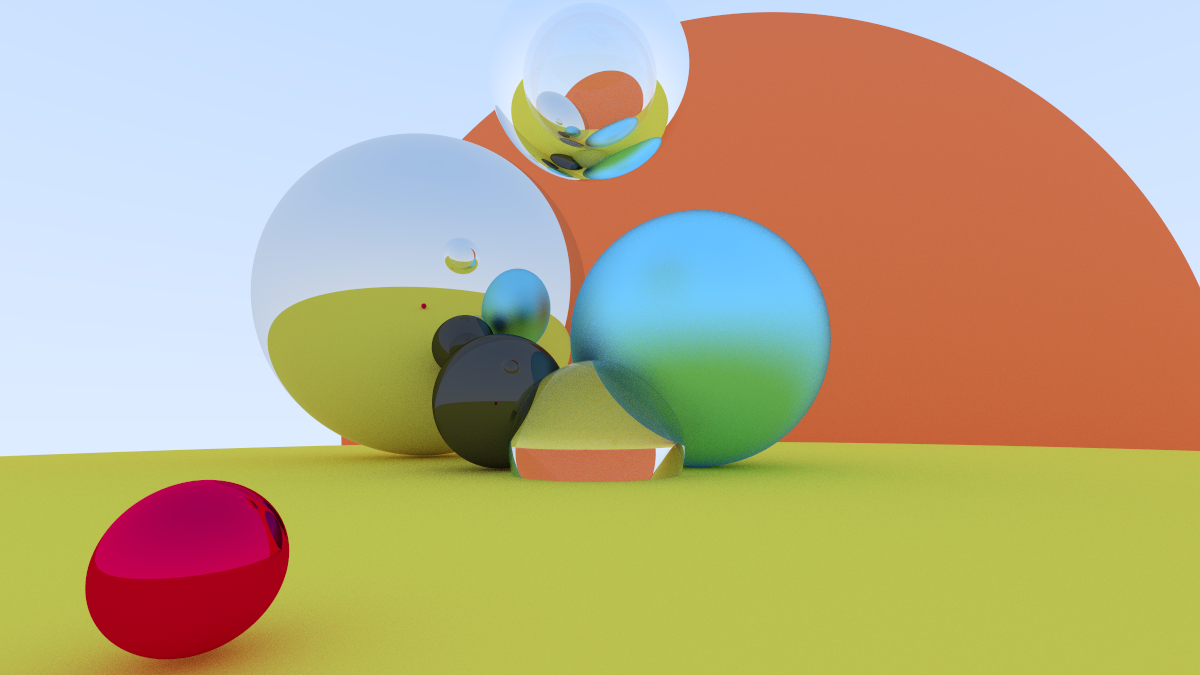
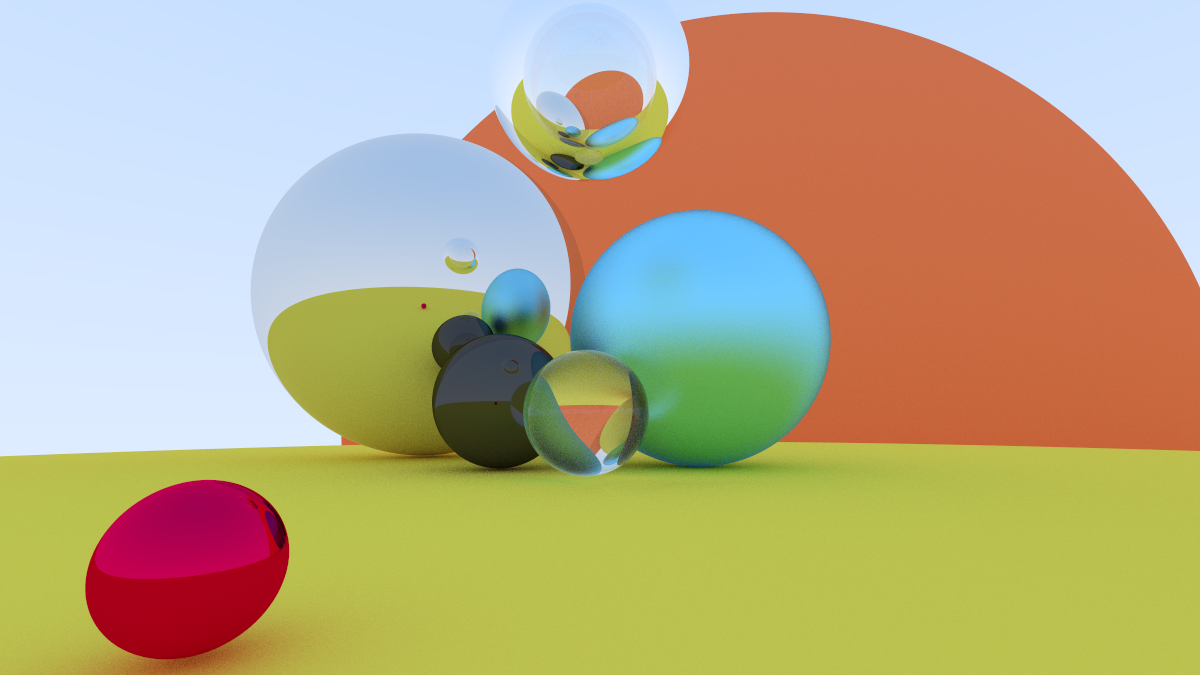
Update render

Changed region(s): [[0.4008, 0.4978, 0.5858, 0.7156], [0.4625, 0.2178, 0.5242, 0.2489]]

diff --git a/src/main.rs b/src/main.rs
@@ -43,7 +43,7 @@ fn main() -> io::Result<()> {
     world.add(Box::new(Sphere::new(Point3::new(-0.15, -0.2, -0.70), 0.3, material_front_center.clone())));
     world.add(Box::new(Sphere::new(Point3::new(-0.35, -0.468, 0.45), 0.04, material_right_small.clone())));
     world.add(Box::new(Sphere::new(Point3::new(-0.58, -0.35, -0.55), 0.15, material_right_small_s.clone())));
-    world.add(Box::new(Sphere::new(Point3::new(-0.35, -0.45, -0.5), 0.18, material_left_small.clone())));
+    world.add(Box::new(Sphere::new(Point3::new(-0.35, -0.38, -0.4), 0.12, material_left_small.clone())));
     world.add(Box::new(Sphere::new(Point3::new(0.0, -100.5, -1.0), 100.0, material_ground.clone())));
 
     // Antialias sampling
